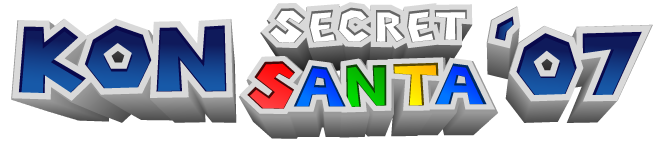
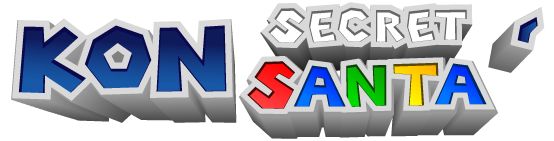
Changed to use correct year

diff --git a/public/less/style.less b/public/less/style.less
@@ -21,6 +21,16 @@
     transition: @items;
 }
 
+.transform(@scale) {
+    transform: scale(@scale, @scale);
+    -ms-transform: scale(@scale, @scale);
+    -webkit-transform: scale(@scale, @scale);
+
+    transform-origin: 0 0;
+    -ms-transform-origin: 0 0;
+    -webkit-transform-origin: 0 0;
+}
+
 .hide {
     display: none;
 }
@@ -35,6 +45,7 @@ body {
 }
 
 .container-main {
+    width: 600px;
     position: relative;
     background-color: white;
     margin-top: 160px;
@@ -288,14 +299,40 @@ ul.alt li {
 .title {
     display: block;
     position: absolute;
-    margin: 0 auto;
+    left: 0; top: -80px;
     height: 142px;
-    left: -30px; top: -80px;
+    width: 680px;
+    margin: 0 -30px;
     line-height: 142px;
 
-    img {
-        display: block;
-        margin: 0 auto;
+    h1 {
+        img {
+            position: absolute;
+            top: 0; left: 0;
+            display: block;
+            margin: 0 auto;
+        }
+
+        .digit {
+            position: absolute;
+            top: 0;
+            background: url(/images/numbers.png) no-repeat;
+            width: 118px;
+            height: 120px;
+
+            &.first { left: 510px; top: 5px; }
+            &.second { left: 575px; top: 6px; }
+            &.digit-0 { background-position: 0 0; }
+            &.digit-1 { background-position: 0 -120px; }
+            &.digit-2 { background-position: 0 -240px; }
+            &.digit-3 { background-position: 0 -360px; }
+            &.digit-4 { background-position: 0 -480px; }
+            &.digit-5 { background-position: 0 -600px; }
+            &.digit-6 { background-position: 0 -720px; }
+            &.digit-7 { background-position: 0 -840px; }
+            &.digit-8 { background-position: 0 -960px; }
+            &.digit-9 { background-position: 0 -1080px; }
+        }
     }
 }
 
@@ -316,10 +353,25 @@ h2.santa {
     }
 }
 
+@media (max-width: 615px) {
+    .container-main {
+        width: auto;
+    }
+}
+
 @media (max-width: @screen-xs-max) {
     .title {
-        width: 100%;
-        left: 0;
+        position: static;
+        margin: 0 auto;
+        top: -140px;
+        width: 544px;
+        margin-top: -130px;
+        margin-bottom: -30px;
+
+        h1 {
+            margin: 0;
+            .transform(0.8);
+        }
     }
 
     .form-inline {
@@ -333,15 +385,30 @@ h2.santa {
     }
 }
 
-@media (max-width: 640px) {
-    .title img {
-        display: inline-block;
-        vertical-align: middle;
-        width: 100%;
+@media (max-width: 580px) {
+    .title {
+        width: 408px;
+        height: 100px;
+        margin-top: -110px;
+
+        h1 {
+            .transform(0.6);
+        }
     }
 }
 
 @media (max-width: 479px) {
+    .title {
+        width: 280px;
+        height: 60px;
+        margin-top: -65px;
+        margin-bottom: -8px;
+
+        h1 {
+            .transform(0.42);
+        }
+    }
+
     .container-main {
         margin-top: 80px;
         padding-top: 30px;

diff --git a/app.js b/app.js
@@ -2,6 +2,7 @@ var express = require('express');
 var RedisStore = require('connect-redis')(express);
 var redisParser = require('./lib/redis-url-parser');
 var less = require('./lib/less-parser');
+var moment = require('moment');
 var mongoose = require('mongoose');
 var sendgrid = require('sendgrid')(process.env.SENDGRID_USERNAME, process.env.SENDGRID_PASSWORD);
 var emailer = require('./lib/emailer')(sendgrid);
@@ -36,6 +37,7 @@ app.use(main.exclusions);
 app.use(main.checkPossible);
 app.use(function(req, res, next) {
     res.locals.kon_question = process.env.KON_QUESTION;
+    res.locals.year = moment().year().toString();
     next();
 });
 
